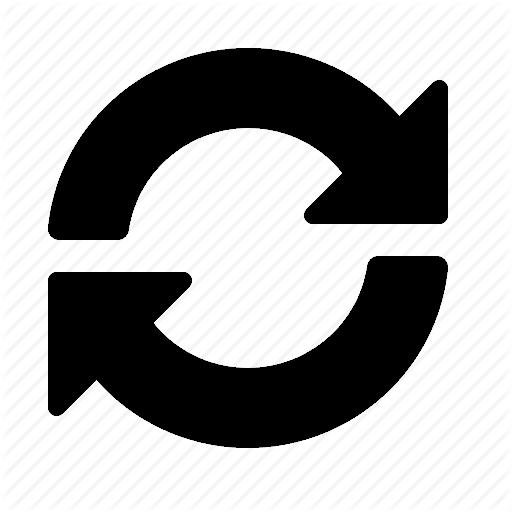
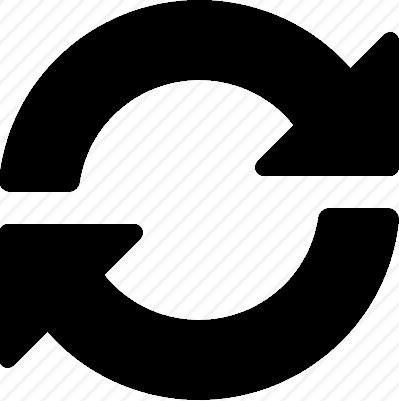
added rotating reload button

diff --git a/wellbeingPage/MainWindow/MainWindow.xaml b/wellbeingPage/MainWindow/MainWindow.xaml
@@ -9,16 +9,30 @@
         Title="Bumblebee" Height="800" Width="1200" MinHeight="500" MinWidth="600" Closed="MainWinClosed" Icon="/wellbeingPage;component/Icon.png" >
     <Grid>
         <Frame NavigationUIVisibility="Hidden" Name="MainFrame" Margin="0,0,0,-2.5"/>
-        <Button x:Name="ReloadButton" Visibility="Collapsed" Style="{StaticResource Expand}" Height="80" Margin="9,14,0,0" Foreground="{x:Null}" VerticalAlignment="Top" Click="ReloadMarks" Cursor="Hand" HorizontalAlignment="Left" Width="80">
+        <Button x:Name="ReloadButton" Visibility="Visible" Style="{StaticResource Expand}" Height="80" Margin="9,14,0,0" Foreground="{x:Null}" VerticalAlignment="Top" Click="ReloadMarks" Cursor="Hand" HorizontalAlignment="Left" Width="80" Background="#FFC90000">
+
+
             <Button.Template>
                 <ControlTemplate TargetType="{x:Type Button}">
                     <Grid>
+                        <Ellipse Fill="#FFFAD200" Width="80" Height="80"/>
                         <ContentPresenter HorizontalAlignment="Center" VerticalAlignment="Center"/>
 
-                        <Ellipse Fill="#FFFAD200" Width="80" Height="80"/>
+
                     </Grid>
                 </ControlTemplate>
             </Button.Template>
+            <Image  Source="/Reload.png" Width="70" Height="70" RenderTransformOrigin="0.5,0.5">
+                <Image.RenderTransform>
+                    <TransformGroup>
+                        <ScaleTransform/>
+                        <SkewTransform/>
+                        <RotateTransform x:Name="ReloadRotater" Angle="0"/>
+                        <TranslateTransform/>
+                    </TransformGroup>
+                </Image.RenderTransform>
+            </Image>
+
         </Button>
         <TextBlock  x:Name="LastUp" Visibility="Collapsed" HorizontalAlignment="Left" TextWrapping="Wrap"  Text="Last Updated: never" VerticalAlignment="Top" Margin="108,46,0,0" Foreground="#FF797979" FontSize="16"/>
 

diff --git a/wellbeingPage/MainWindow/MainWindow.xaml.cs b/wellbeingPage/MainWindow/MainWindow.xaml.cs
@@ -13,6 +13,7 @@ using System.Windows.Media;
 using System.Windows.Media.Imaging;
 using System.Windows.Navigation;
 using System.Windows.Shapes;
+using System.Windows.Threading;
 using wellbeingPage.Settings;
 
 namespace wellbeingPage
@@ -23,6 +24,7 @@ namespace wellbeingPage
     public partial class MainWindow : Window
     {
         public bool ShutAll = true;  //when this window shuts everything shuts
+        DispatcherTimer milliseconds = new DispatcherTimer();
 
         public MainWindow()
         {
@@ -47,8 +49,19 @@ namespace wellbeingPage
                     GetStudentData.PutMarks();
                 }
             }
+
+            milliseconds.Interval = TimeSpan.FromMilliseconds(1);
+            milliseconds.Tick += Rot;
+            milliseconds.Start();
         }
-        
+        void Rot(object sender, object e)
+        {
+            if (!ReloadButton.IsEnabled)
+            {
+                ReloadRotater.Angle += 3;
+            }
+            
+        }
         private void DarknessButtonScreenClicked(object sender, RoutedEventArgs e)
         {
             MenuPopup.Visibility = Visibility.Collapsed;
@@ -104,6 +117,7 @@ namespace wellbeingPage
         {
             LastUp.Visibility = Visibility.Collapsed;
             ReloadButton.Visibility = Visibility.Collapsed;
+            ReloadRotater.Angle = 0;
             HomeSection.Visibility = Visibility.Visible;
             TasksSection.Visibility = Visibility.Visible;
             WellbeingSection.Visibility = Visibility.Visible;

diff --git a/wellbeingPage/GetStudentData.cs b/wellbeingPage/GetStudentData.cs
@@ -240,15 +240,18 @@ namespace wellbeingPage
             {
                 Console.WriteLine("Chromedriver was unable to complete webscraping");
                 driver.Quit();
+                App.Current.Dispatcher.Invoke((Action)delegate // <--- HERE
+                {
+                   ((MainWindow)System.Windows.Application.Current.MainWindow).ReloadButton.IsEnabled = true;
+                    ((MainWindow)Application.Current.MainWindow).ReloadRotater.Angle = 0;
+
+                });
+                
                 if (ShowError)
                 {
                     MessageBox.Show("There was an error connecting to Live Marks. Please ensure that you:\n\n    - Are connected to the internet\n\n    - Have inputted the correct credentials (change in settings)\n\n    - Do not exit the Chrome window\n\n\n And then try again.", "Error", MessageBoxButton.OK, MessageBoxImage.Error);
                 }
-                App.Current.Dispatcher.Invoke((Action)delegate // <--- HERE
-                {
-                   ((MainWindow)System.Windows.Application.Current.MainWindow).ReloadButton.IsEnabled = true;
-
-                });
+                
                 return false;
             }
         }
